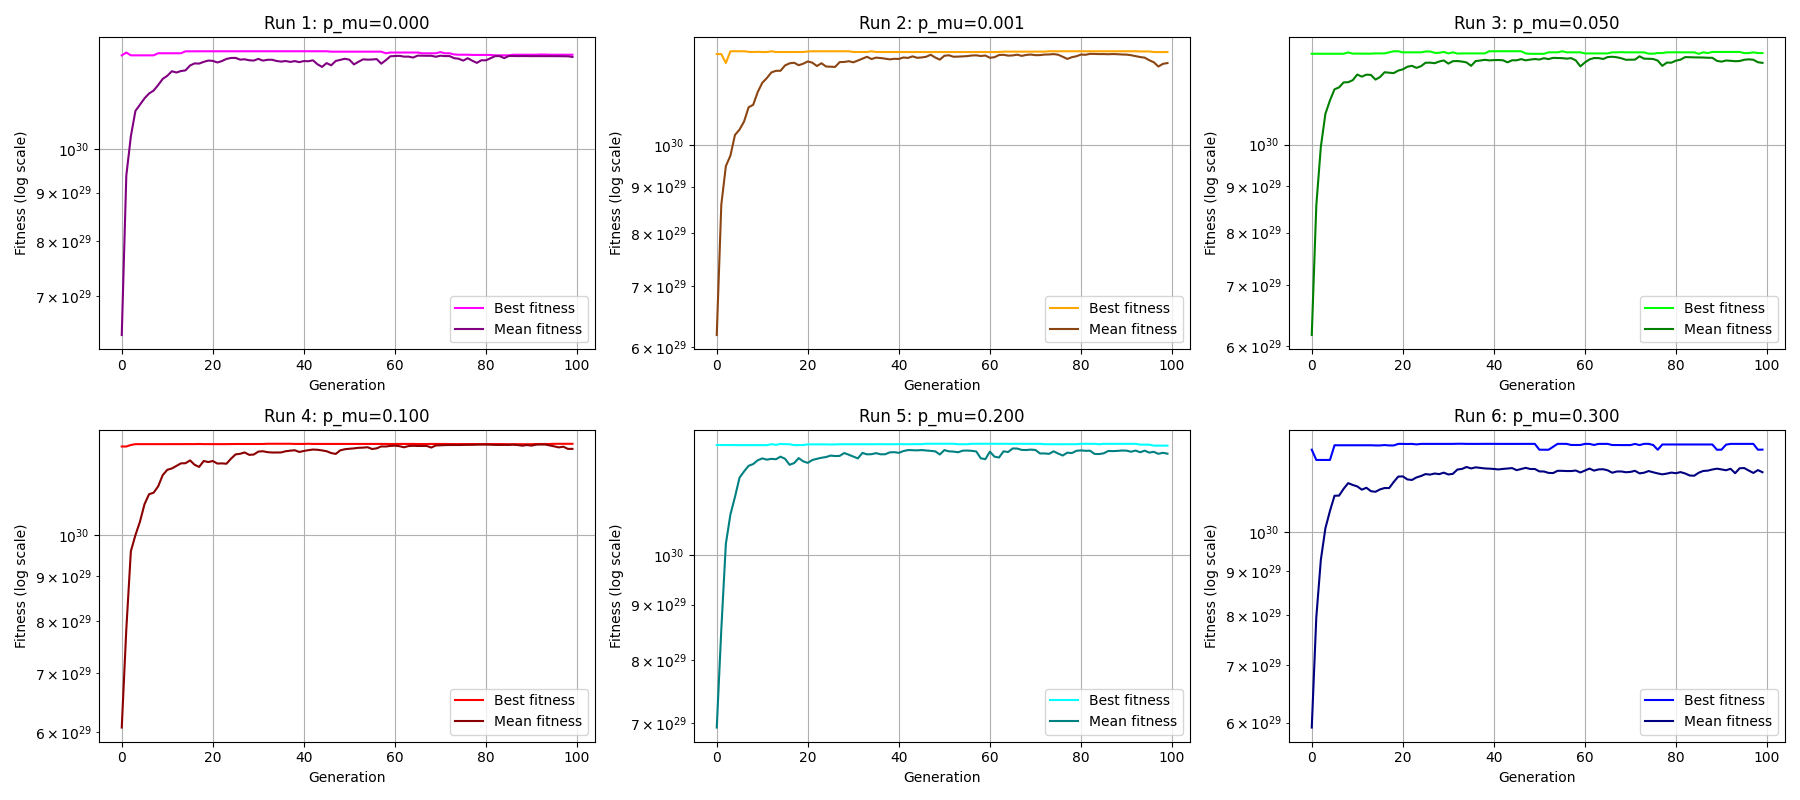
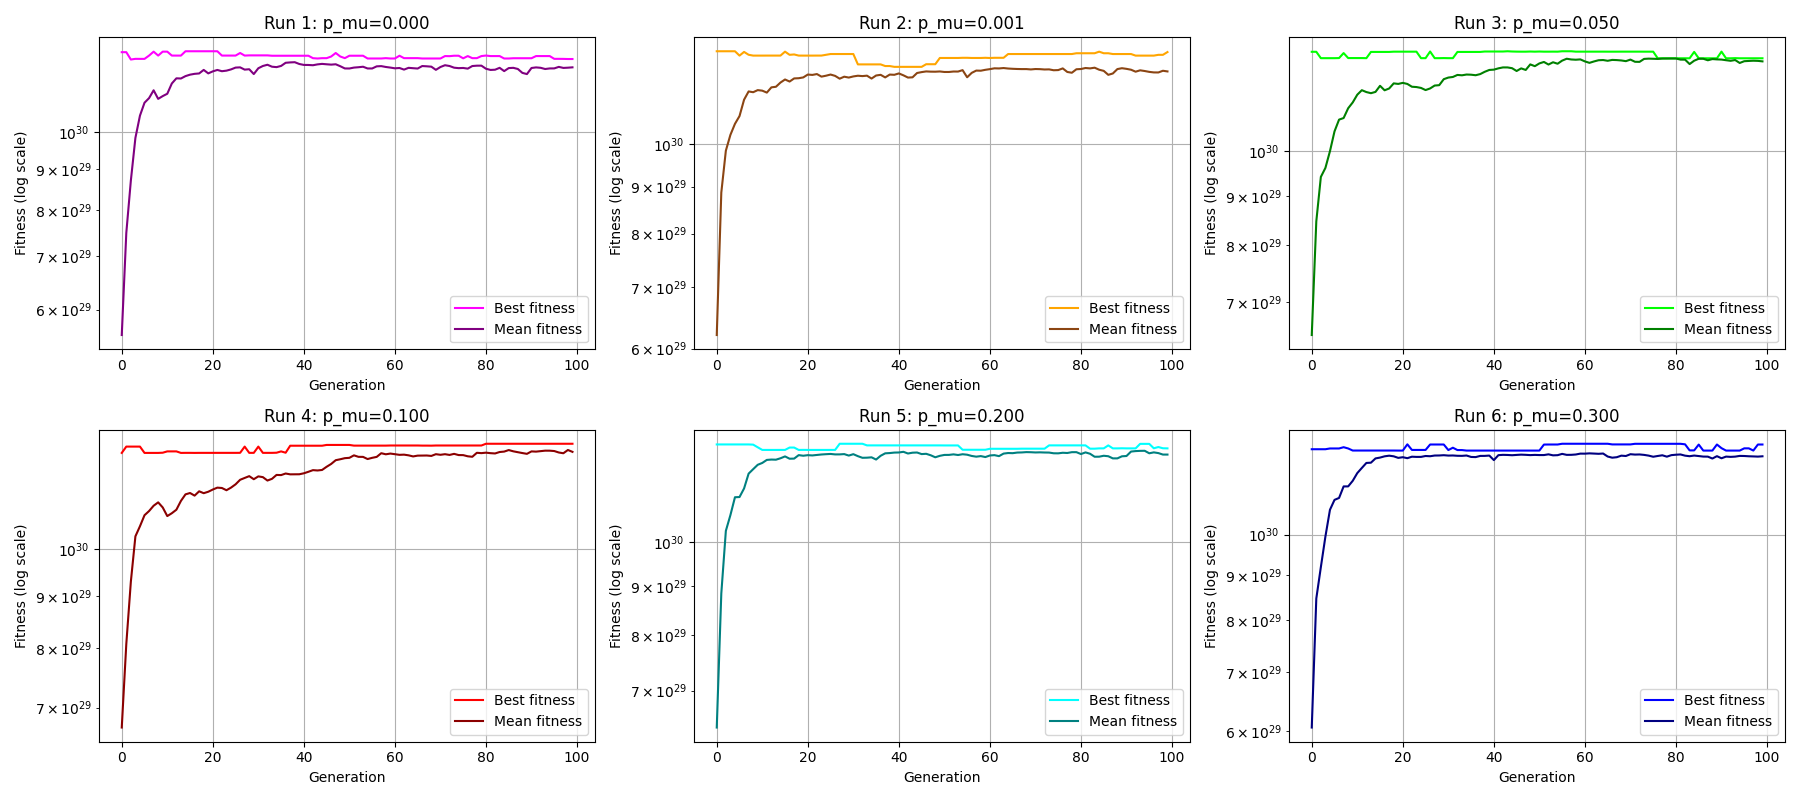
new results for 2 and 3 after debugging the binary fitness function

diff --git a/genetic/genetic_algorithm.py b/genetic/genetic_algorithm.py
@@ -5,18 +5,12 @@ def linear_fitness(population: torch.Tensor):
     return population.sum(dim=1)
 
 def binary_fitness(population: torch.Tensor):
-    batch_size, chromosome_length = population.shape
-    chunk_size, device = 32, population.device
-    fitness = torch.zeros(batch_size, dtype=torch.float64, device=device)
+    batch_size, l = population.shape
+    device = population.device
 
-    for i in range(0, chromosome_length, chunk_size):
-        end = min(i + chunk_size, chromosome_length)
-        chunk = population[:, i:end].to(torch.float64)
-        power_range = torch.arange(end - 1, i - 1, -1, device=device, dtype=torch.float64)
-        powers = 2 ** power_range
-        fitness += (chunk * powers).sum(dim=1)
-
-    return fitness.to(torch.float32)
+    power_range = torch.arange(l - 1, -1, -1, device=device, dtype=torch.float64)
+    fitness = (population * 2 ** power_range).sum(dim=1)
+    return fitness
 
 def ones(fitnesses: torch.Tensor, target=None):
     return torch.any(fitnesses == target).item()

diff --git a/genetic/9_3.py b/genetic/9_3.py
@@ -8,7 +8,7 @@ def main():
         '111' + '*'*97,
         '*1*1*1' + '*'*94,
         '*'*100,
-        '*1'*50,
+        '10' + '*'*98,
         '0'*100,
         '1'*100,
         '0' + '*'*98 + '0',
@@ -20,15 +20,15 @@ def main():
         '111***...',
         '*1*1*1***...',
         '***...',
-        '*1*1*1...',
+        '10***...',
         '000...',
         '111...',
         '0***...***0',
         '1***...***1'
     ]
-    genetic = GeneticAlgorithm(target=schema, fitness=linear_fitness)
-    counts = genetic.run(schemas=schemas)
-    schema_count(counts, labels, '../results/9_3_counts_linear.png')
+    genetic = GeneticAlgorithm(target=schema, fitness=binary_fitness)
+    counts = genetic.run(schemas=schemas, generations=100)
+    schema_count(counts, labels, '../results/9_3_counts_binary.png')
 
 
 if __name__ == '__main__':
